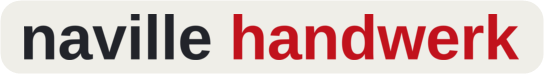
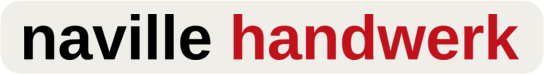
Marke: "naville" in reinem Schwarz (Kopf, Wortmarken-Bilder, Preisrechner-PDF)

Changed region(s): [[0.0312, 0.1892, 0.4062, 0.8108]]

diff --git a/basis.css b/basis.css
@@ -18,7 +18,7 @@ a{color:inherit}
 .wire{height:4px;background:var(--red)}
 .nav{position:sticky;top:0;z-index:20;background:rgba(239,238,232,.9);backdrop-filter:blur(8px);border-bottom:1px solid var(--line)}
 .nav-in{display:flex;justify-content:space-between;align-items:center;padding-block:18px;gap:20px;flex-wrap:wrap}
-.brand{font-family:'Archivo';font-weight:600;font-size:21px;letter-spacing:-.4px;text-transform:lowercase;text-decoration:none;color:var(--ink)}
+.brand{font-family:'Archivo';font-weight:600;font-size:21px;letter-spacing:-.4px;text-transform:lowercase;text-decoration:none;color:#000}
 .nav-links a{margin-left:26px;color:var(--grey);text-decoration:none;font-size:14.5px}
 .nav-links a:hover{color:var(--red)}
 .nav-links a.on{color:var(--ink);font-weight:600;text-decoration:underline;text-decoration-color:var(--red);text-underline-offset:7px;text-decoration-thickness:2.5px}

diff --git a/preisrechner.html b/preisrechner.html
@@ -455,7 +455,7 @@ function makePDF(){
     d.setFillColor(ROT[0],ROT[1],ROT[2]);d.rect(0,10,210,0.8,'F');
     if(PDFIMG.emblem){d.addImage(PDFIMG.emblem,'PNG',x,14,31.3,10);}
     if(PDFIMG.wort){d.addImage(PDFIMG.wort,'PNG',right-49.5,17.4,49.5,4.6);}
-    else{d.setFont('helvetica','bold');d.setFontSize(12);d.setTextColor(ROT[0],ROT[1],ROT[2]);d.text('handwerk',right,21,{align:'right'});var hw=d.getTextWidth('handwerk ');d.setTextColor(INK[0],INK[1],INK[2]);d.text('naville',right-hw,21,{align:'right'});}
+    else{d.setFont('helvetica','bold');d.setFontSize(12);d.setTextColor(ROT[0],ROT[1],ROT[2]);d.text('handwerk',right,21,{align:'right'});var hw=d.getTextWidth('handwerk ');d.setTextColor(0,0,0);d.text('naville',right-hw,21,{align:'right'});}
     d.setDrawColor(LINIE[0],LINIE[1],LINIE[2]);d.setLineWidth(0.3);d.line(x,27,right,27);
     y=37;
   }else{
